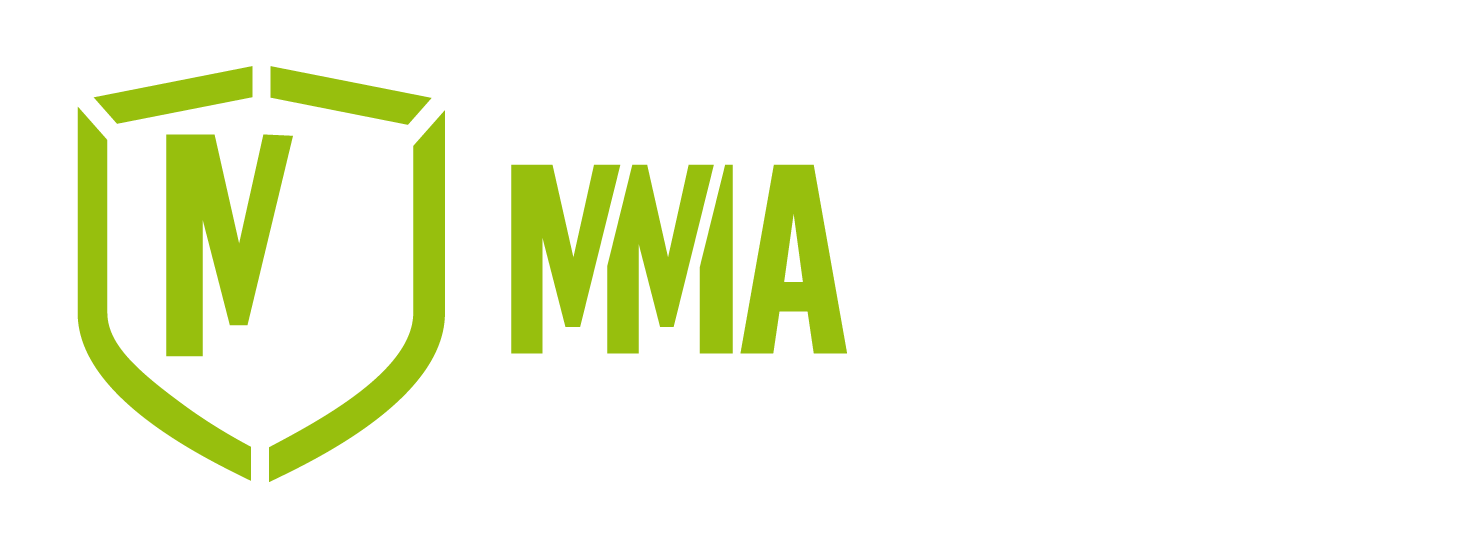
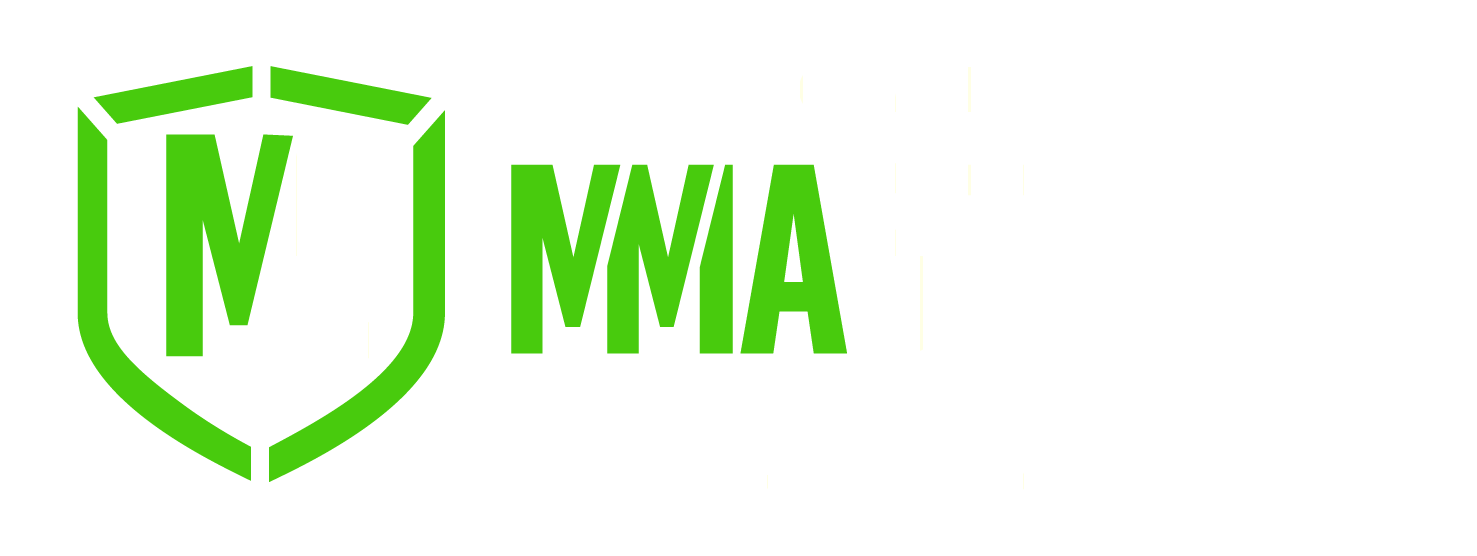
updated styles

Changed region(s): [[0.0311, 0.1223, 0.3114, 0.8561], [0.3426, 0.2752, 0.5917, 0.6421]]

diff --git a/index.html b/index.html
@@ -296,7 +296,6 @@
             <div class="accordion-content">
                 <div class="accordion-content-wrapper">
                     <img alt="nabídka práce" class="gallery-pic" src="assets/trenerjob.png"/>
-                    <img alt="nabídka práce" class="gallery-pic" src="assets/recepcnijob.png"/>
                 </div>
             </div>
         </div>
@@ -389,8 +388,8 @@
             <p>Arménská, 3277 Kladno</p>
             <p><b>Nově otevřeno!</b></p>
             <br>
-            <p><b style="font-size: large">Přijímáme Multisport karty!</b></p>
-            <p><b style="font-size: large">Platby pouze v hotovosti!</b></p>
+            <p><b style="font-size: large">Platby hotově i kartou!</b></p>
+            <p><b style="font-size: large">Přijímáme Multisportky i zaměstnanecké karty Benefit Plus!</b></p>
         </div>
         <div class="map-media">
             <div class="map">

diff --git a/styles.css b/styles.css
@@ -373,6 +373,10 @@ textarea {
         font-size: medium;
     }
 
+    #main-logo-wrapper {
+        max-height: 60%;
+    }
+
     .embed-video {
         min-height: 20rem;
     }
@@ -431,7 +435,7 @@ textarea {
         width: 50%;
         text-align: center;
         padding: 1rem 3.5rem;
-        border: 3px solid lawngreen;
+        border: 3px solid #7bcb00;
     }
 
     .reservations-link {
